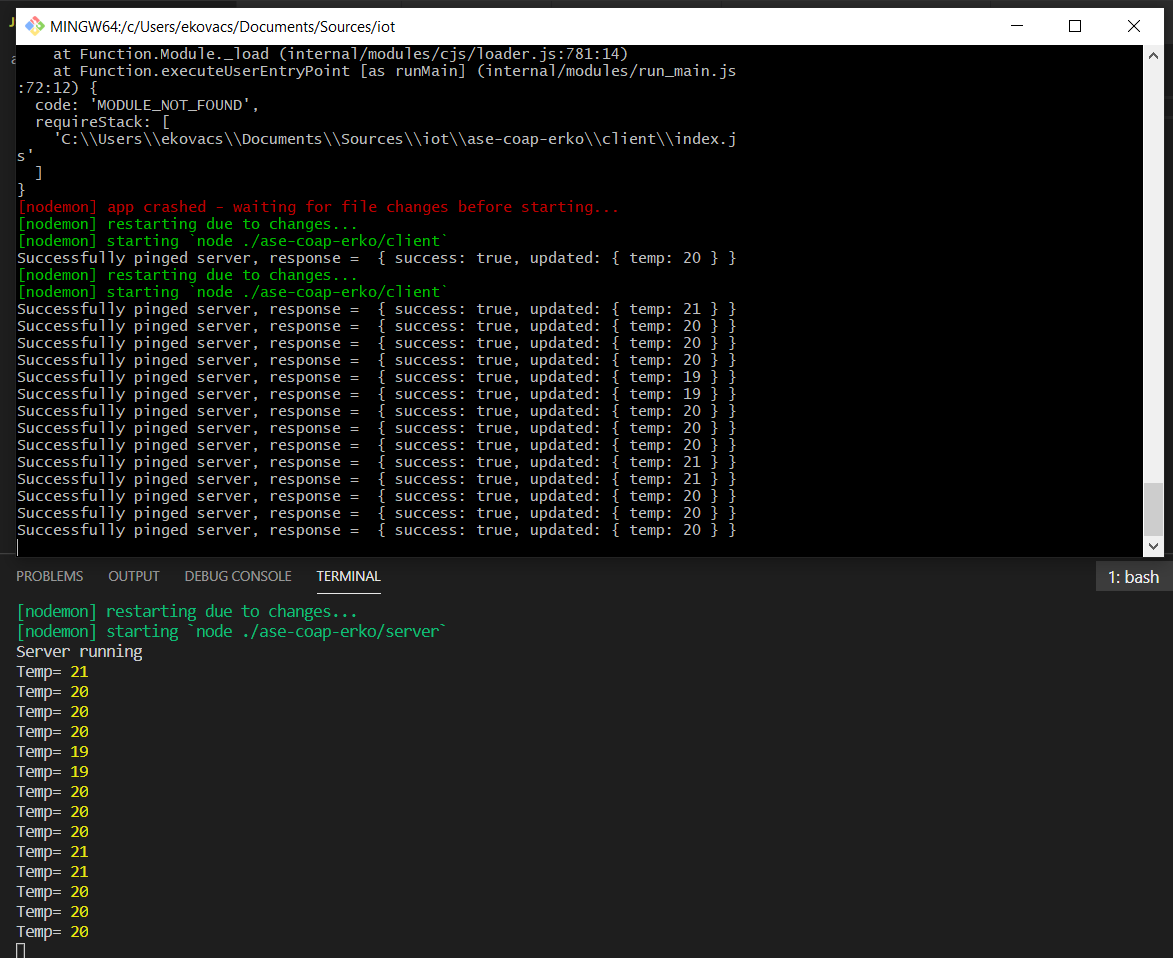
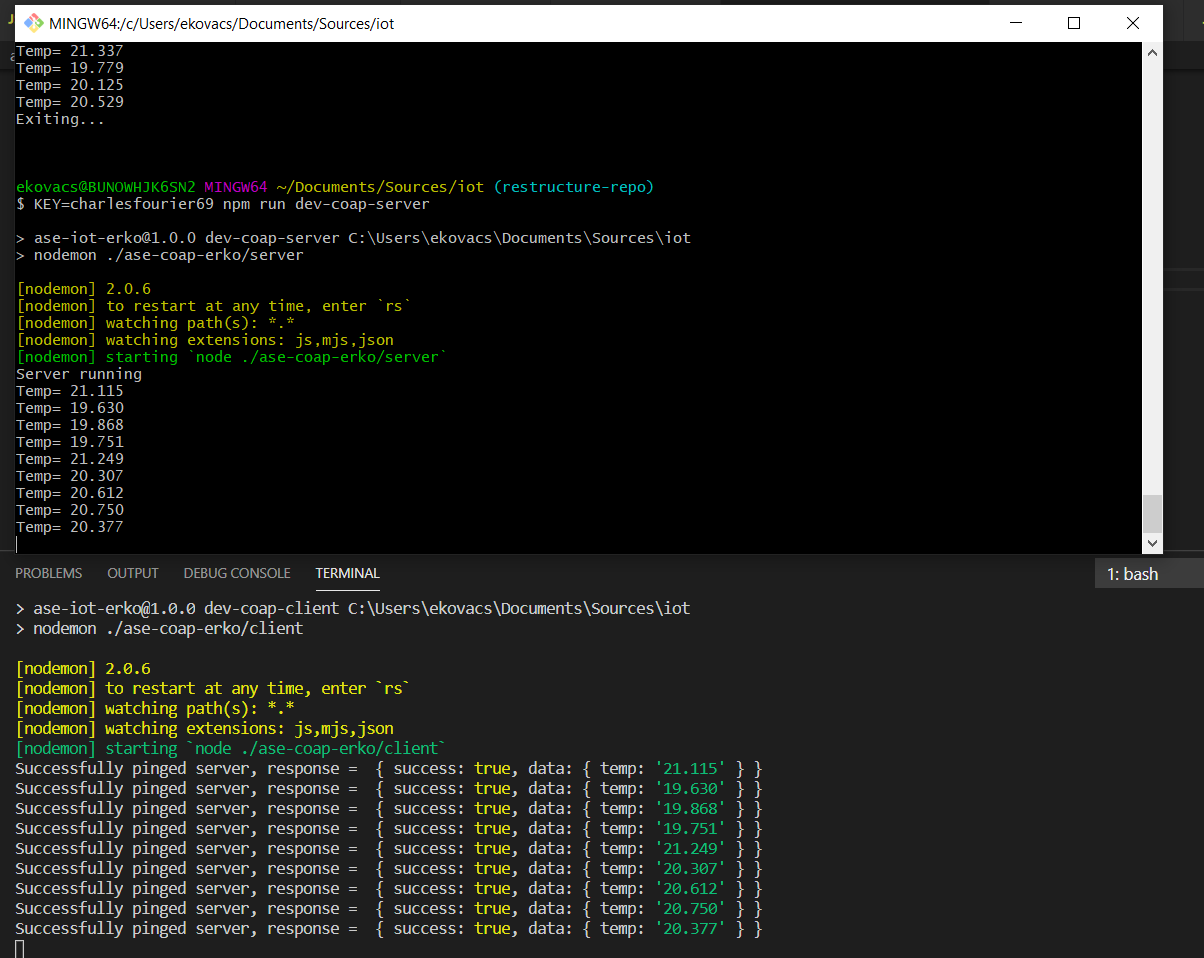
small tweaks

Changed region(s): [[0.0, 0.1816, 0.6445, 1.0], [0.0, 0.0, 1.0, 0.6357]]

diff --git a/ase-coap-erko/server/index.js b/ase-coap-erko/server/index.js
@@ -12,14 +12,22 @@ if (!KEY) {
 const server = coap.createServer({ type: 'udp4' });
 
 server.on('request', function(req, res) {
+  let success = true;
+
   // Decrypt and parse what we got
   let payload = req.payload.toString('utf-8');
-  let decrypted = Util.decrypt(payload, KEY);
-  const data = (() => { try { return JSON.parse(decrypted); } catch (e) { return null; }})();
-  console.log('Temp=', data ? data.temp : '?');
+  let decrypted, data;
+  try {
+    decrypted = Util.decrypt(payload, KEY);
+    data = JSON.parse(decrypted)
+  } catch (error) {
+    success = false;
+    data = error;
+  }
+  console.log('Temp=', data && data.temp ? data.temp : '?');
 
   // Respond with encrypted data
-  let response = JSON.stringify({ success: true, updated: { temp: data.temp } });
+  let response = JSON.stringify({ success, data });
   let encryptedResponse = Util.encrypt(response, KEY);
   res.end(encryptedResponse);
 });

diff --git a/ase-coap-erko/client/index.js b/ase-coap-erko/client/index.js
@@ -33,6 +33,8 @@ setInterval(() => {
         const data = JSON.parse(payload);
         if (data.success) {
             console.log('Successfully pinged server, response = ', data);
+        } else {
+            console.log('Error occurred = ', data);
         }
         res.on('end', function() {
             // on request end

diff --git a/README.md b/README.md
@@ -1,21 +1,23 @@
 # ASE IOT Projects
 
-## For ASE-MQTT-ERKO
-Dependencies
+## Dependencies
  - Node v13.9.0
 
- COAP Client and Server can be run using the following steps:
+## Prerequisites
  - Clone this repo
- - Enter the COAP Project `cd ase-coap-erko`
  - Install dependecies `npm install`
- - In a terminal provide a runtime key and run server `KEY=testpassword1234 npm run server`
- - In a second terminal provide a runtime key and run client `KEY=testpassword1234 npm run client`
- - Use `Ctrl+C` to kill either process (the business logic is very simple - a random temperature is pushed to the subscribers each 3000ms until it is killed)
+
+## For ASE-COAP-ERKO
+
+ COAP Client and Server can be run using the following steps:
+ - In a terminal provide a runtime key and run server `KEY=testpassword1234 npm run coap-server`
+ - In a second terminal provide **the same** runtime key and run client `KEY=testpassword1234 npm run coap-client`
+ - Use `Ctrl+C` to kill either process (the business logic is very simple - a random "room temperature" is pushed to the server every 3000ms until the client is killed - the server responds with a status flag and some metadata)
 
 ## How it works
 The connection uses application-level encryption based on AES-128 in CBC mode with a pre-shared key provided as an environment variable and a known (hardcoded) IV. 
 
-There are two files, one for the client and one for the server. They must be run in parallel so they can talk to each other over localhost:
+There are two scripts, one for the client and one for the server. They must be run in parallel so they can talk to each other over localhost:
 
 ![coap-encrypted](./media/client-server.PNG)
 
@@ -24,15 +26,10 @@ Take a look at the data captured in Wireshark, it's encrypted (both the request 
 ![coap-encrypted](./media/coap-image-1.PNG)
 ![coap-encrypted](./media/coap-image-2.PNG)
 
-## For ASE-COAP-ERKO
-Dependencies
- - Node v13.9.0
- 
+## For ASE-MQTT-ERKO
 MQTT client can be run using the following steps:
- - Clone this repo
- - Install dependecies `npm install`
- - In a second terminal provide a runtime key and run client `KEY=testpassword1234 npm run client`
- - Use `Ctrl+C` to kill the process (the business logic is very simple - a random temperature is pushed to the subscribers each 3000ms until it is killed)
+ - In a terminal provide a runtime key and run client (containing both the publisher and the subscriber) `KEY=testpassword1234 npm run mqtt-client`
+ - Use `Ctrl+C` to kill the process (the business logic is very simple - a random "room temperature" is published to the broker every 3000ms until it is killed)
 
 ## How it works
 The connection uses application-level encryption based on AES-128 in CBC mode with a pre-shared key provided as an environment variable and a known (hardcoded) IV. 
